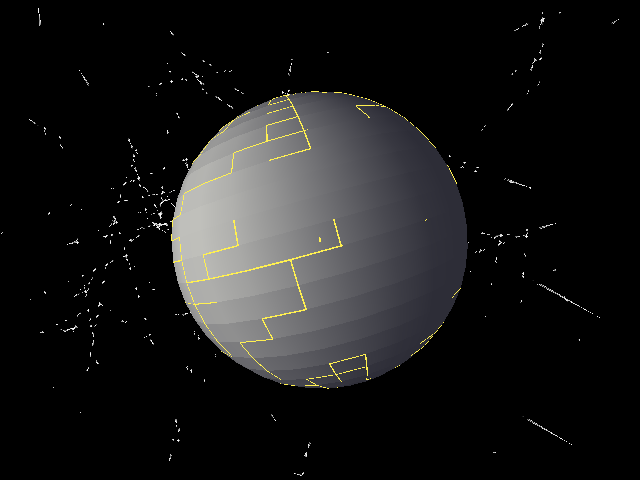
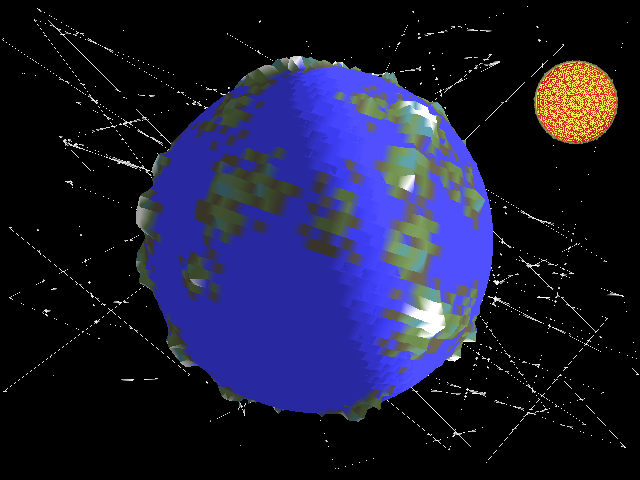
new image

diff --git a/SphericalGeometry.js b/SphericalGeometry.js
@@ -9,11 +9,9 @@
 var globals = {
 	r : 160,
 	magStep : 1,
-	maxElevation : 0,
-	gridAtStage : 3,
+	maxElevation : 0,	
 	countElevation : 0,
-	definition : 144,
-	starNr : 75,
+	definition : 112,	starNr : 75,
 	globe : [],
 	offset : 0,
 	initialRotation : null,
@@ -26,11 +24,12 @@ var globals = {
 	beaconDelay :0,
 	beaconRatio : 0.022, // increase to spread land into scatrered islands, decrease to regroup land. plays with maxElevation also
 	nrBeacons:0,
-	maxBeacons :0,
+	maxBeacons :0,	
+	drawTrailDuring : 160,
+	beaconDelay :0,	
 	w : 640,
 	h : 480,
 	sunPosition  : null,
-	sunSize : 40,
 	sunLight : null,
 	camera : null,
     colors : []
@@ -199,8 +198,9 @@ function doRotate(vect,pitch, roll, yaw) {
 	
 	var offsetX = -0.4*globals.w*cos(globals.sunLight.x);
 	var offsetY = 0.4*globals.h*sin(globals.sunLight.y);
-	globals.sunPosition = createVector(offsetX,offsetY);
-	var sunSize = globals.sunSize;
+	
+	sunPosition = createVector(offsetX,offsetY);
+	var sunSize = 40;
 	
 	globals.startBg.fill(sunColor);
 	globals.startBg.ellipse(offsetX,offsetY,5+sunSize*2,5+sunSize*2);
@@ -392,9 +392,8 @@ function doRotate(vect,pitch, roll, yaw) {
 														pivotPoint.beacon.beaconCounter =globals.beaconDelay;
 														globals.nrBeacons++;
 													}
-												}
-											}
-										}
+}
+}										}
 									}
 								}
 								data.length = 0;
@@ -481,34 +480,33 @@ function testBeaconTrailForPattern(data){
 	}
 }
 
+function mousePressed() {
+  var mx = mouseX;
+  var my = mouseY;
 
 
-function changeCursor(){
-	var mx = mouseX;
-	var my = mouseY;
-  
-	var sunX = globals.sunPosition.x + globals.w/2;
-	var sunY = globals.sunPosition.y + globals.h/2;
- 
-	var d = dist(mx, my, sunX, sunY);
-	if(d < globals.sunSize){
-	    cursor(HAND);
-	}else{
-		    cursor(ARROW);
-
-	}
 }
 
 function mouseReleased() {
-	var mx = mouseX;
-	var my = mouseY;
-  
-	var sunX = globals.sunPosition.x + globals.w/2;
-	var sunY = globals.sunPosition.y + globals.h/2;
- 
-	var d = dist(mx, my, sunX, sunY);
-	if(d < globals.sunSize){
-		globals.autoRotate = !globals.autoRotate;
-	}
+
 }
+
+
+
+
+
+
+
+
+
+
+
+
+
+
+
+
+
+
+
 
